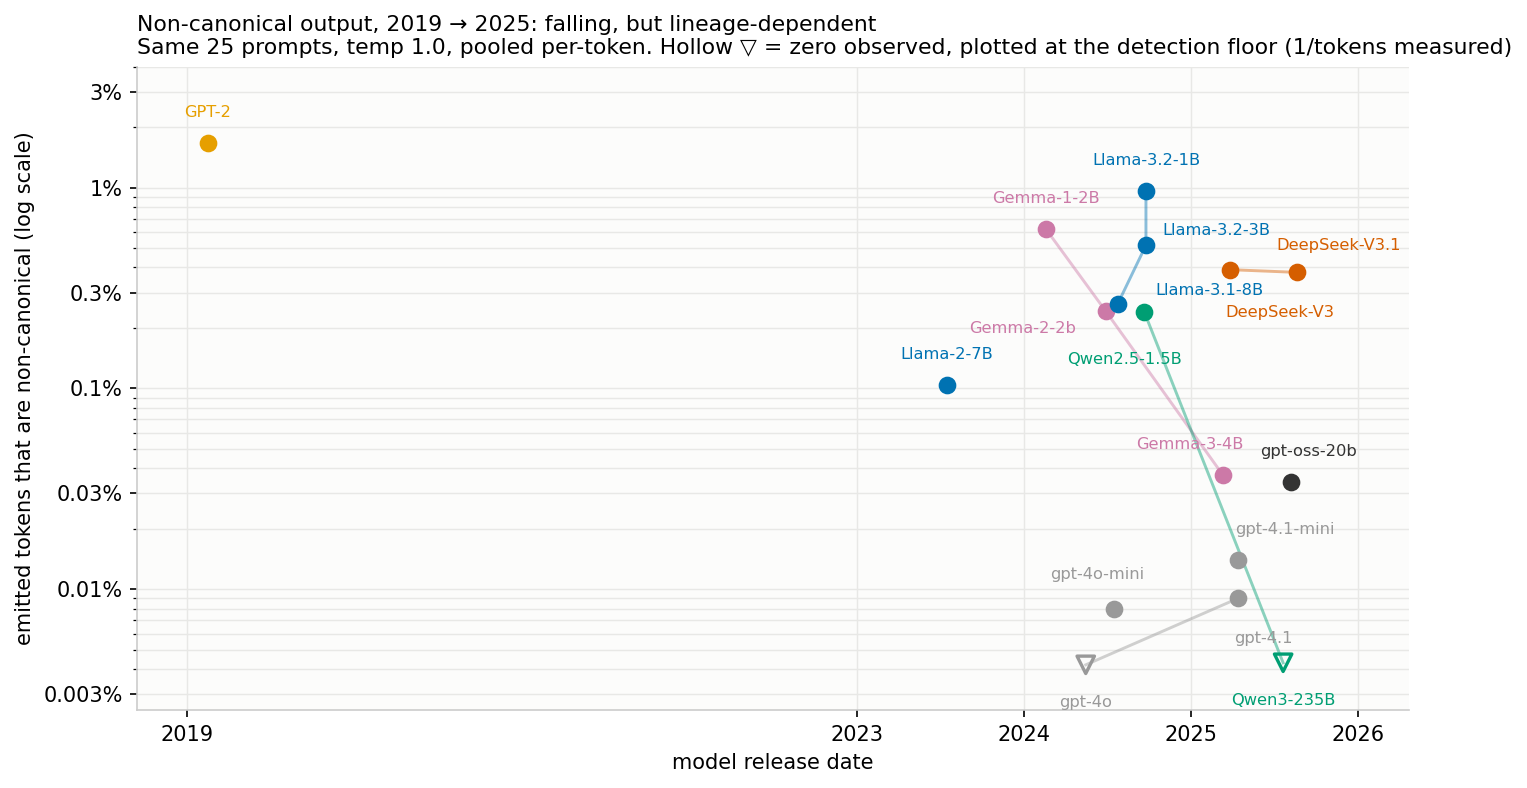
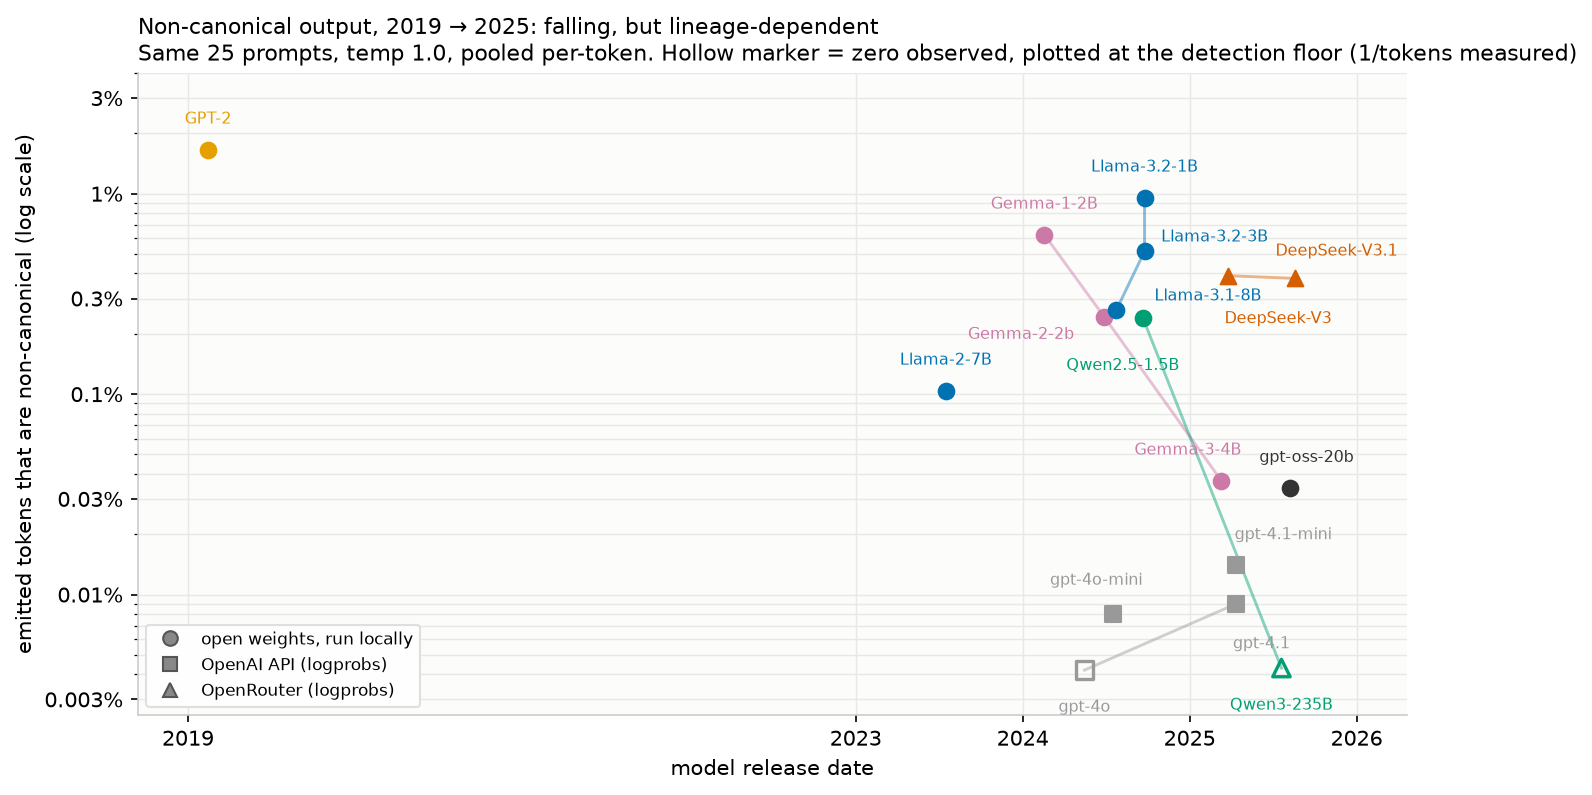
Encode measurement route as marker shape in the overview figure
Circle = open weights run locally, square = OpenAI API logprobs,
triangle = OpenRouter logprobs; hollow-at-floor convention unchanged.
Makes the per-point API-fidelity caveat visible in the figure itself.

diff --git a/retok/figures.py b/retok/figures.py
@@ -438,6 +438,24 @@ LINEAGE_COLORS = {
     "oss": "#333333",
     "deepseek": "#D55E00",
 }
+# Measurement route: local weights unless listed here. Shape-encoded in the
+# overview so API-fidelity caveats (defaults, quantization, re-serialization
+# ambiguity) are visible per point.
+OVERVIEW_ROUTES = {
+    "gpt-4o": "openai",
+    "gpt-4o-mini": "openai",
+    "gpt-4.1": "openai",
+    "gpt-4.1-mini": "openai",
+    "DeepSeek-V3": "openrouter",
+    "DeepSeek-V3.1": "openrouter",
+    "Qwen3-235B": "openrouter",
+}
+ROUTE_MARKERS = {"local": "o", "openai": "s", "openrouter": "^"}
+ROUTE_LABELS = {
+    "local": "open weights, run locally",
+    "openai": "OpenAI API (logprobs)",
+    "openrouter": "OpenRouter (logprobs)",
+}
 # Within-lineage connections (tokenizer + recipe held roughly fixed).
 OVERVIEW_LINES = [
     ("llama", ["Llama-3.2-1B", "Llama-3.2-3B", "Llama-3.1-8B"]),
@@ -465,6 +483,7 @@ def plot_overview(out_path: Path) -> None:
         )
     for name, date, rate_, floor, lineage, dx, ym in OVERVIEW:
         colour = LINEAGE_COLORS[lineage]
+        marker = ROUTE_MARKERS[OVERVIEW_ROUTES.get(name, "local")]
         if floor is not None:  # zero observed: plot AT the detection floor
             ax.scatter(
                 date,
@@ -472,13 +491,13 @@ def plot_overview(out_path: Path) -> None:
                 s=70,
                 facecolors="none",
                 edgecolors=colour,
-                marker="v",
+                marker=marker,
                 linewidths=1.6,
                 zorder=3,
             )
             y = floor
         else:
-            ax.scatter(date, rate_, s=56, color=colour, zorder=3)
+            ax.scatter(date, rate_, s=56, color=colour, marker=marker, zorder=3)
             y = rate_
         ax.annotate(
             name,
@@ -499,10 +518,31 @@ def plot_overview(out_path: Path) -> None:
     ax.set_ylabel("emitted tokens that are non-canonical (log scale)")
     ax.set_title(
         "Non-canonical output, 2019 \u2192 2025: falling, but lineage-dependent\n"
-        "Same 25 prompts, temp 1.0, pooled per-token. Hollow \u25bd = zero "
+        "Same 25 prompts, temp 1.0, pooled per-token. Hollow marker = zero "
         "observed, plotted at the detection floor (1/tokens measured)",
         fontsize=10.5,
         loc="left",
+    )
+    from matplotlib.lines import Line2D
+
+    ax.legend(
+        handles=[
+            Line2D(
+                [],
+                [],
+                linestyle="none",
+                marker=ROUTE_MARKERS[r],
+                markersize=7,
+                markerfacecolor="#888888",
+                markeredgecolor="#555555",
+                label=ROUTE_LABELS[r],
+            )
+            for r in ("local", "openai", "openrouter")
+        ],
+        loc="lower left",
+        fontsize=8.2,
+        framealpha=0.92,
+        edgecolor="#dddddd",
     )
     ax.grid(True, which="both", color="#e8e8e6", linewidth=0.7, zorder=0)
     for sp in ("top", "right"):
